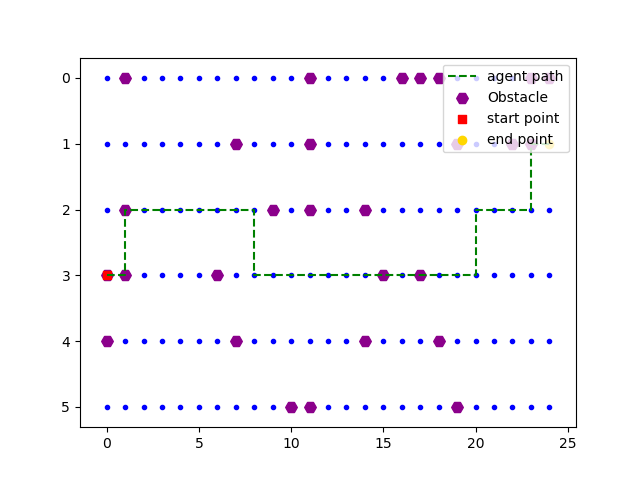
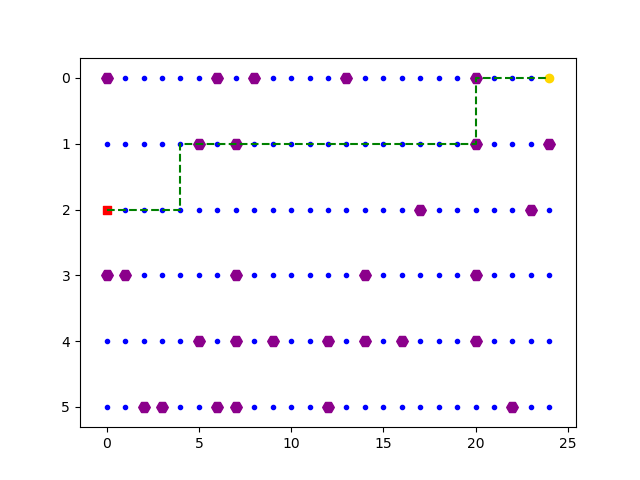
Changed reward for right movements to 5 and retrained policy.

diff --git a/obstacle.py b/obstacle.py
@@ -114,7 +114,7 @@ class ObstacleEnv(GridWorld):
                     reward_mat[s - self.nCols, 3] = -5.
 
             # right movements
-            reward_mat[s, 2] = 10.
+            reward_mat[s, 2] = 5.
 
             # left movements
             reward_mat[s, 0] = -10.
